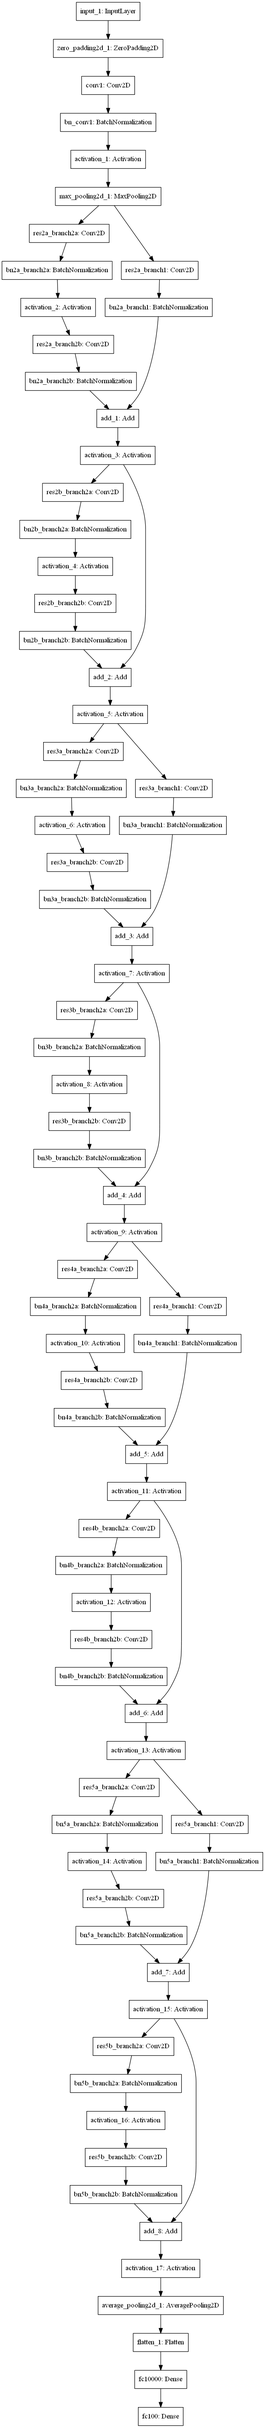
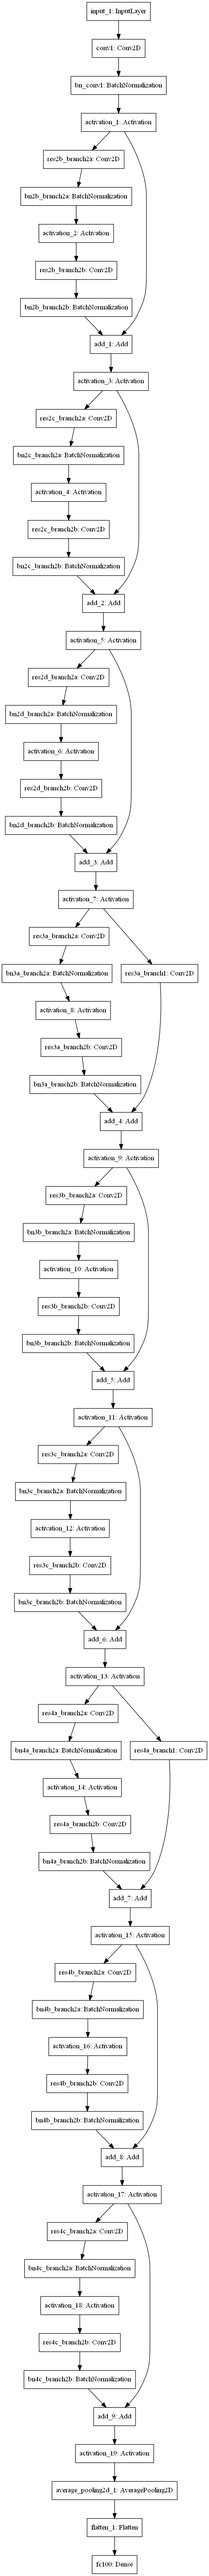
Cifar100 changes

diff --git a/CIFAR100 Image Classification/code/resnet18.py b/CIFAR100 Image Classification/code/resnet18.py
@@ -1,32 +1,37 @@
 import numpy as np
-
-from keras.models import Model
-from keras.layers import Dense, AveragePooling2D, MaxPooling2D, Activation,ZeroPadding2D, Flatten, Input, Dropout, Conv2D, BatchNormalization, Add
-from keras.applications.resnet50 import ResNet50
-from keras.preprocessing import image
-from keras.applications.resnet50 import preprocess_input, decode_predictions
+from keras.applications.resnet50 import (ResNet50, decode_predictions,
+                                         preprocess_input)
+from keras.callbacks import (EarlyStopping, LearningRateScheduler,
+                             ModelCheckpoint, ReduceLROnPlateau)
 from keras.initializers import glorot_uniform
+from keras.layers import (Activation, Add, AveragePooling2D,
+                          BatchNormalization, Conv2D, Dense, Dropout, Flatten,
+                          Input, MaxPooling2D, ZeroPadding2D)
+from keras.models import Model
 from keras.optimizers import Adam
-from keras.callbacks import LearningRateScheduler, ModelCheckpoint, ReduceLROnPlateau, EarlyStopping
+from keras.preprocessing import image
 from keras.preprocessing.image import ImageDataGenerator
+from keras.regularizers import l2
 
 from util import Utility
+
+
 
 class CustomModel:
     def __init__(self):
         return None
 
-    def identity_block(self,X, f, filters, stage, block):
+    def identity_block(self, X, f, filters, stage, block):
         """
         Implementation of the identity block as defined in Figure 3
-        
+
         Arguments:
         X -- input tensor of shape (m, n_H_prev, n_W_prev, n_C_prev)
         f -- integer, specifying the shape of the middle CONV's window for the main path
         filters -- python list of integers, defining the number of filters in the CONV layers of the main path
         stage -- integer, used to name the layers, depending on their position in the network
         block -- string/character, used to name the layers, depending on their position in the network
-        
+
         Returns:
         X -- output of the identity block, tensor of shape (n_H, n_W, n_C)
         """
@@ -35,31 +40,32 @@ class CustomModel:
         bn_name_base = 'bn' + str(stage) + block + '_branch'
 
         # Retrieve filters
-        f1,f2 = filters
+        f1, f2 = filters
 
         # Save the input value. This needs to be added back to the main path later.
         X_shortcut = X
 
         # First component of the main path
-        X = Conv2D(filters= f1, kernel_size=(f,f), strides=(1,1), padding='same', name=conv_name_base + '2a', kernel_initializer=glorot_uniform(seed=0))(X)
+        X = Conv2D(filters=f1, kernel_size=(f, f), strides=(1, 1), padding='same',
+                   name=conv_name_base + '2a', kernel_initializer=glorot_uniform(seed=0), kernel_regularizer=l2(1e-4))(X)
         X = BatchNormalization(axis=3, name=bn_name_base + '2a')(X)
         X = Activation('relu')(X)
 
-
         # Second component of the main path
-        X = Conv2D(filters= f2, kernel_size=(1,1), strides=(1,1), padding='valid', name=conv_name_base + '2b', kernel_initializer=glorot_uniform(seed=0))(X)
+        X = Conv2D(filters=f2, kernel_size=(f, f), strides=(1, 1), padding='same',
+                   name=conv_name_base + '2b', kernel_initializer=glorot_uniform(seed=0), kernel_regularizer=l2(1e-4))(X)
         X = BatchNormalization(axis=3, name=bn_name_base + '2b')(X)
 
         # Add the shortcut value to the main path
         X = Add()([X_shortcut, X])
-        X = Activation('relu')(X)   
+        X = Activation('relu')(X)
 
         return X
 
-    def convolutional_block(self,X, f, filters, stage, block, s=2):
+    def convolutional_block(self, X, f, filters, stage, block, s=2):
         """
         Implementation of the convolutional block as defined in Figure 4
-        
+
         Arguments:
         X -- input tensor of shape (m, n_H_prev, n_W_prev, n_C_prev)
         f -- integer, specifying the shape of the middle CONV's window for the main path
@@ -67,7 +73,7 @@ class CustomModel:
         stage -- integer, used to name the layers, depending on their position in the network
         block -- string/character, used to name the layers, depending on their position in the network
         s -- Integer, specifying the stride to be used
-        
+
         Returns:
         X -- output of the convolutional block, tensor of shape (n_H, n_W, n_C)
         """
@@ -83,19 +89,21 @@ class CustomModel:
         X_Shortcut = X
 
         # First component of the main path
-        X = Conv2D(f1, kernel_size=(f,f),strides=(s,s),name=conv_name_base + '2a',padding='same',kernel_initializer=glorot_uniform(seed=0))(X)
+        X = Conv2D(f1, kernel_size=(f, f), strides=(s, s), name=conv_name_base +
+                   '2a', padding='same', kernel_initializer=glorot_uniform(seed=0), kernel_regularizer=l2(1e-4))(X)
         X = BatchNormalization(axis=3, name=bn_name_base + '2a')(X)
         X = Activation('relu')(X)
 
         # Second component of the main path
-        X = Conv2D(f2, kernel_size=(1,1),strides=(1,1),name=conv_name_base + '2b',padding='valid',kernel_initializer=glorot_uniform(seed=0))(X)
+        X = Conv2D(f2, kernel_size=(f, f), strides=(1, 1), name=conv_name_base +
+                   '2b', padding='same', kernel_initializer=glorot_uniform(seed=0), kernel_regularizer=l2(1e-4))(X)
         X = BatchNormalization(axis=3, name=bn_name_base + '2b')(X)
 
-
         # shortcut path
-        X_Shortcut = Conv2D(f2, kernel_size=(1,1),strides=(s,s),name=conv_name_base + '1',padding='valid',kernel_initializer=glorot_uniform(seed=0))(X_Shortcut)
-        X_Shortcut = BatchNormalization(axis=3, name=bn_name_base + '1')(X_Shortcut)
-
+        X_Shortcut = Conv2D(f2, kernel_size=(1, 1), strides=(s, s), name=conv_name_base +
+                            '1', padding='same', kernel_initializer=glorot_uniform(seed=0), kernel_regularizer=l2(1e-4))(X_Shortcut)
+        #X_Shortcut = BatchNormalization(
+         #   axis=3, name=bn_name_base + '1')(X_Shortcut)
 
         # Add main and shortcut path
         X = Add()([X_Shortcut, X])
@@ -118,37 +126,42 @@ class CustomModel:
         """
         # Define input as a tensor of input shape
         X_input = Input(input_shape)
-
-        # Zero Padding
-        X = ZeroPadding2D((3,3))(X_input)
+        X = X_input
 
         # Stage 1
-        X = Conv2D(64, (7,7), strides = (2,2), name='conv1', kernel_initializer=glorot_uniform(seed=0))(X)
+        X = Conv2D(16, (3, 3), strides=(1, 1), name='conv1', padding='same',
+                   kernel_initializer=glorot_uniform(seed=0), kernel_regularizer=l2(1e-4))(X)
         X = BatchNormalization(axis=3, name='bn_conv1')(X)
         X = Activation('relu')(X)
-        X = MaxPooling2D((3,3), strides=(2,2))(X)
-    
+
         # Stage 2
-        X = self.convolutional_block(X, f=3, filters=[64,64], stage=2, block='a', s=1)
-        X = self.identity_block(X, 3,[64,64], stage=2, block='b')
+        X = self.identity_block(X, 3, [16, 16], stage=2, block='b')
+        X = self.identity_block(X, 3, [16, 16], stage=2, block='c')
+        X = self.identity_block(X, 3, [16, 16], stage=2, block='d')
         # Stage 3
-        X = self.convolutional_block(X, f=3, filters=[64,128], stage=3, block='a', s=2)
-        X = self.identity_block(X,3,[64,128], stage=3, block='b')
+        X = self.convolutional_block(
+            X, f=3, filters=[32, 32], stage=3, block='a', s=2)
+        X = self.identity_block(X, 3, [32, 32], stage=3, block='b')
+        X = self.identity_block(X, 3, [32, 32], stage=3, block='c')
         # Stage 4
-        X = self.convolutional_block(X, f=3, filters=[128,256], stage=4, block='a', s=2)
-        X = self.identity_block(X,3,[128,256], stage=4, block='b')
+        X = self.convolutional_block(
+            X, f=3, filters=[64, 64], stage=4, block='a', s=2)
+        X = self.identity_block(X, 3, [64, 64], stage=4, block='b')
+        X = self.identity_block(X, 3, [64, 64], stage=4, block='c')
         # Stage 5
-        X = self.convolutional_block(X, f=3, filters=[256,512], stage=5, block='a', s=2)
-        X = self.identity_block(X,3,[256,512], stage=5, block='b')
+        # X = self.convolutional_block(
+        #     X, f=3, filters=[256, 512], stage=5, block='a', s=2)
+        # X = self.identity_block(X, 3, [256, 512], stage=5, block='b')
+        # X = self.identity_block(X, 3, [256, 512], stage=5, block='c')
 
         # AVGPOOL
-        X = AveragePooling2D((1,1))(X)
+        X = AveragePooling2D(pool_size=8)(X)
 
         # Output Layer
         X = Flatten()(X)
-        X = Dense(1000, activation='relu', name='fc10000', kernel_initializer=glorot_uniform(seed=0))(X)
-        X = Dense(classes, activation='softmax', name='fc'+str(classes), kernel_initializer=glorot_uniform(seed=0))(X)
-        
+        X = Dense(classes, activation='softmax', name='fc' +
+                  str(classes), kernel_initializer=glorot_uniform(seed=0))(X)
+
         # Create model
-        model = Model(inputs = X_input, outputs = X, name='Resnet18')
+        model = Model(inputs=X_input, outputs=X, name='Resnet18')
         return model

diff --git a/CIFAR100 Image Classification/code/main.py b/CIFAR100 Image Classification/code/main.py
@@ -75,7 +75,7 @@ def main():
         model = resnet50.CustomModel().construct_Rsnet50(classes=100)
     
     # Train the model
-    train.train(model,X_train, y_train, X_test, y_test, num_epochs, 64, data_augmentation=True)
+    train.train(model,X_train, y_train, X_test, y_test, num_epochs, 32, data_augmentation=True)
 
 if __name__ == "__main__":
     main()
